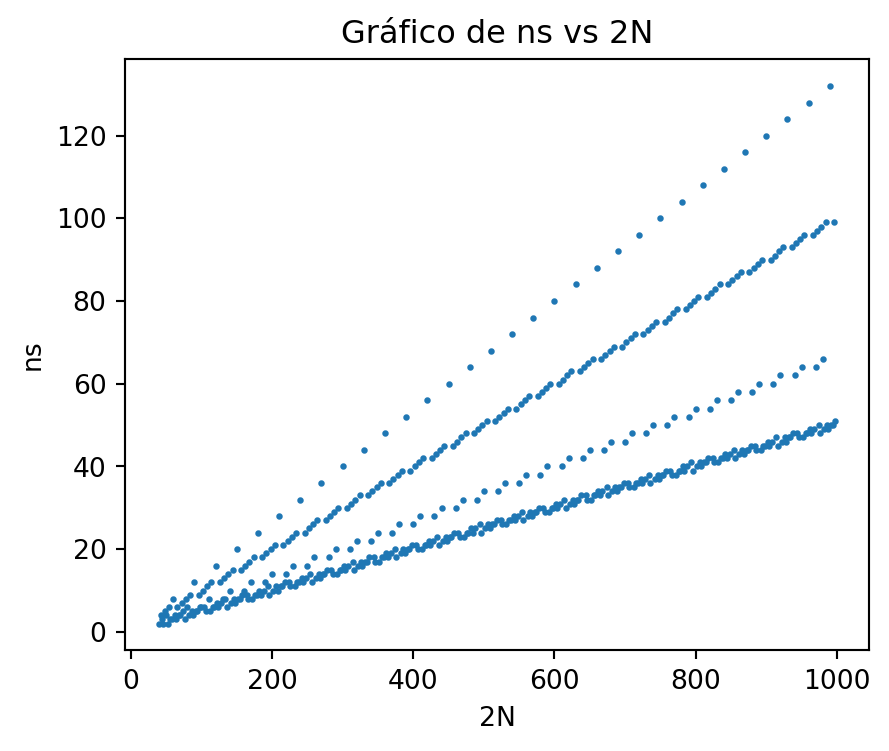
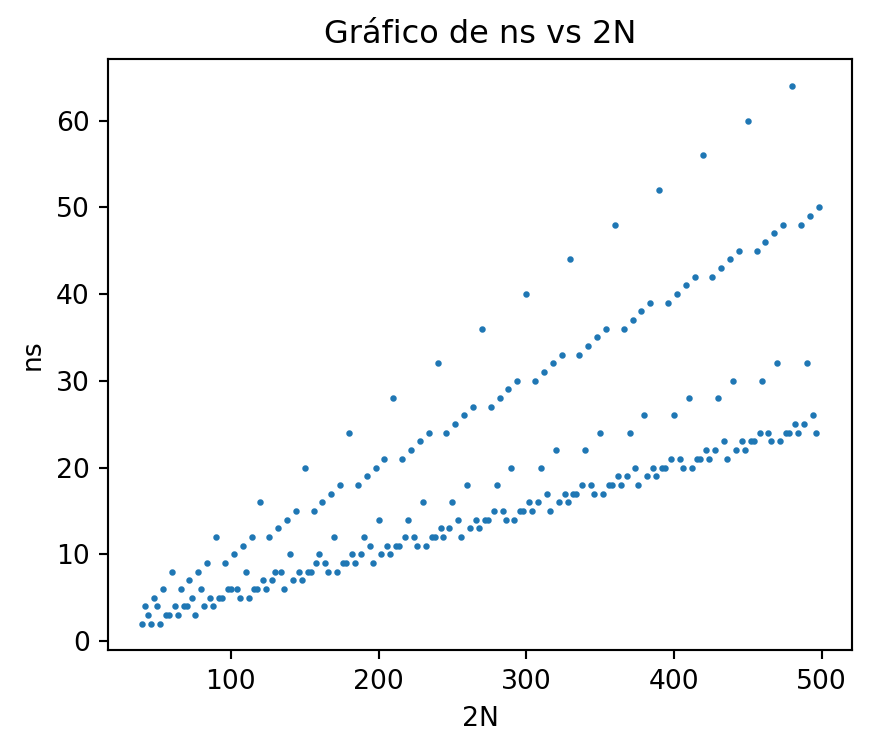
Add files via upload

diff --git a/index.html b/index.html
@@ -176,7 +176,7 @@ pre > code.sourceCode > span > a:first-child::before { text-decoration: underlin
     <h2 id="toc-title">En esta página</h2>
    
   <ul>
-  <li><a href="#resolviendo-una-ecuación" id="toc-resolviendo-una-ecuación" class="nav-link active" data-scroll-target="#resolviendo-una-ecuación">Resolviendo una ecuación</a></li>
+  <li><a href="#solución-de-5s-r-equiv-a-mod-p" id="toc-solución-de-5s-r-equiv-a-mod-p" class="nav-link active" data-scroll-target="#solución-de-5s-r-equiv-a-mod-p">Solución de <span class="math inline">\(5s + r \equiv a \mod p\)</span></a></li>
   <li><a href="#número-de-soluciones" id="toc-número-de-soluciones" class="nav-link" data-scroll-target="#número-de-soluciones">Número de soluciones</a>
   <ul class="collapse">
   <li><a href="#un-caso-de-simetría" id="toc-un-caso-de-simetría" class="nav-link" data-scroll-target="#un-caso-de-simetría">Un caso de simetría</a></li>
@@ -215,8 +215,8 @@ pre > code.sourceCode > span > a:first-child::before { text-decoration: underlin
 </header>
 
 <p>La matemática es un lenguaje que permite describir de forma cuantitativa y cualitativa nuestro entorno. Este lenguaje que se construye a partir de la sintaxis de la lógica, cruza barreras idiológicas, económicas, étnicas, de género y cualquir otra cimentada por el humano.</p>
-<section id="resolviendo-una-ecuación" class="level1">
-<h1>Resolviendo una ecuación</h1>
+<section id="solución-de-5s-r-equiv-a-mod-p" class="level1">
+<h1>Solución de <span class="math inline">\(5s + r \equiv a \mod p\)</span></h1>
 <p>Vamos a encontrar un conjunto de valores enteros <span class="math inline">\(s\)</span> tales que</p>
 <p><span id="eq-eq_modular"><span class="math display">\[
 5s + r \equiv a \mod p
@@ -592,29 +592,29 @@ n_S = \Omega \left( \frac{2m - 4}{5} \right) +  \Omega \left( \frac{m - 7}{5} \r
 <p><span id="eq-eq_m5v3"><span class="math display">\[
 s + t = \frac{m - (r_1 + r_2 + 1)}{5}
 \tag{29}\]</span></span></p>
-<p>De forma similiar a los casos anterior y teniendo en cuenta que ahora los términos <span class="math inline">\(\alpha\)</span> y <span class="math inline">\(\beta\)</span> pertenecen a conjuntos distintos, buscaremos soluciones de la ecuación</p>
+<p>Nuestro razonamiento ahora será de forma similiar a los casos anteriores, teniendo en cuenta que los términos <span class="math inline">\(\alpha\)</span> y <span class="math inline">\(\beta\)</span> pertenecen a conjuntos distintos, esto quiere decir que no tenemos simetría en las soluciones. De acuerdo con esto</p>
 <p><span id="eq-eq_casoN0"><span class="math display">\[
 r_1 + r_2 = j - 1 \text{ con } r_1 =  0,1,2,3 \text{ y } r_2 = 1,2,3,4
 \tag{30}\]</span></span></p>
-<p>Si <span class="math inline">\(j = 0\)</span> los valores que pueden tomar <span class="math inline">\(r_1\)</span>, <span class="math inline">\(r_2\)</span> son <span class="math inline">\(r_1 = 0\)</span> y <span class="math inline">\(r_2 = 4\)</span>, <span class="math inline">\(r_1 = 1,3\)</span> y <span class="math inline">\(r_2 = 3,1\)</span>, <span class="math inline">\(r_1 = 2\)</span> y <span class="math inline">\(r_2=2\)</span>. De acuerdo con esto</p>
+<p>Si <span class="math inline">\(j = 0\)</span> entonces <span class="math inline">\(r_1 + r_2 = 4\)</span> con <span class="math inline">\(r_1 \neq 4\)</span> y <span class="math inline">\(r_2 \neq 0\)</span>. De acuerdo con esto</p>
 <p><span class="math display">\[
-n_s = \frac{4m}{5}.
+n_S = \frac{4m}{5}.
 \]</span></p>
 <p>Si <span class="math inline">\(j = 1\)</span> los valores que pueden tomar <span class="math inline">\(r_1\)</span>, <span class="math inline">\(r_2\)</span> son <span class="math inline">\(r_1 = 1\)</span> y <span class="math inline">\(r_2 = 4\)</span>, <span class="math inline">\(r_1 = 2,3\)</span> y <span class="math inline">\(r_2 = 3,2\)</span>. De acuerdo con esto</p>
 <p><span class="math display">\[
-n_s = \frac{3m - 3}{5}.
+n_S = \frac{3m - 3}{5}.
 \]</span></p>
 <p>Si <span class="math inline">\(j = 2\)</span> los valores que pueden tomar <span class="math inline">\(r_1\)</span>, <span class="math inline">\(r_2\)</span> son <span class="math inline">\(r_1 = 0\)</span> y <span class="math inline">\(r_2 = 1\)</span>, <span class="math inline">\(r_1 = 2\)</span> y <span class="math inline">\(r_2 = 4\)</span>, <span class="math inline">\(r_1 = 3\)</span> y <span class="math inline">\(r_2 = 3\)</span>. De acuerdo con esto</p>
 <p><span class="math display">\[
-n_s = \frac{3m - 1}{5}.
+n_S = \frac{3m - 1}{5}.
 \]</span></p>
 <p>Si <span class="math inline">\(j = 3\)</span> los valores que pueden tomar <span class="math inline">\(r_1\)</span>, <span class="math inline">\(r_2\)</span> son <span class="math inline">\(r_1 = 0\)</span> y <span class="math inline">\(r_2 = 2\)</span>, <span class="math inline">\(r_1 = 1\)</span> y <span class="math inline">\(r_2 = 1\)</span>, <span class="math inline">\(r_1 = 3\)</span> y <span class="math inline">\(r_2 = 4\)</span>. De acuerdo con esto</p>
 <p><span class="math display">\[
-n_s = \frac{3m + 1}{5}.
+n_S = \frac{3m + 1}{5}.
 \]</span></p>
 <p>Si <span class="math inline">\(j = 4\)</span> los valores que pueden tomar <span class="math inline">\(r_1\)</span>, <span class="math inline">\(r_2\)</span> son <span class="math inline">\(r_1 = 0\)</span> y <span class="math inline">\(r_2 = 3\)</span>, <span class="math inline">\(r_1 = 1,2\)</span> y <span class="math inline">\(r_2 = 2,1\)</span>. De acuerdo con esto</p>
 <p><span class="math display">\[
-n_s = \frac{3m + 3}{5}.
+n_S = \frac{3m + 3}{5}.
 \]</span></p>
 <p>El siguiente programa encuentra el número de parejas no divisibles por <span class="math inline">\(2\)</span>, <span class="math inline">\(3\)</span> ni <span class="math inline">\(5\)</span> cuya suma en un número par <span class="math inline">\(2N\)</span>.</p>
 <div class="cell" data-execution_count="2">
@@ -640,8 +640,8 @@ n_s = \frac{3m + 3}{5}.
 <span id="cb2-20"><a href="#cb2-20" aria-hidden="true" tabindex="-1"></a>    <span class="cf">else</span>:</span>
 <span id="cb2-21"><a href="#cb2-21" aria-hidden="true" tabindex="-1"></a>        <span class="cf">return</span> <span class="dv">1</span></span>
 <span id="cb2-22"><a href="#cb2-22" aria-hidden="true" tabindex="-1"></a><span class="co">"""</span></span>
-<span id="cb2-23"><a href="#cb2-23" aria-hidden="true" tabindex="-1"></a><span class="co">La función ng(n) calcula el número de parejas de números no divisibles</span></span>
-<span id="cb2-24"><a href="#cb2-24" aria-hidden="true" tabindex="-1"></a><span class="co">por 2, 3, y 5 cuya suma es n.</span></span>
+<span id="cb2-23"><a href="#cb2-23" aria-hidden="true" tabindex="-1"></a><span class="co">La función ng(n) calcula el número de parejas de </span></span>
+<span id="cb2-24"><a href="#cb2-24" aria-hidden="true" tabindex="-1"></a><span class="co">números no divisibles por 2, 3, y 5 cuya suma es 2N.</span></span>
 <span id="cb2-25"><a href="#cb2-25" aria-hidden="true" tabindex="-1"></a><span class="co">"""</span></span>
 <span id="cb2-26"><a href="#cb2-26" aria-hidden="true" tabindex="-1"></a><span class="kw">def</span> ng(x):</span>
 <span id="cb2-27"><a href="#cb2-27" aria-hidden="true" tabindex="-1"></a>    lg <span class="op">=</span> []</span>
@@ -653,8 +653,8 @@ n_s = \frac{3m + 3}{5}.
 <span id="cb2-33"><a href="#cb2-33" aria-hidden="true" tabindex="-1"></a></span>
 <span id="cb2-34"><a href="#cb2-34" aria-hidden="true" tabindex="-1"></a></span>
 <span id="cb2-35"><a href="#cb2-35" aria-hidden="true" tabindex="-1"></a><span class="co">"""</span></span>
-<span id="cb2-36"><a href="#cb2-36" aria-hidden="true" tabindex="-1"></a><span class="co">Funciones para calcular el número de parejas no divisibles por 2, 3 y 5</span></span>
-<span id="cb2-37"><a href="#cb2-37" aria-hidden="true" tabindex="-1"></a><span class="co">cuya suma es 2N.</span></span>
+<span id="cb2-36"><a href="#cb2-36" aria-hidden="true" tabindex="-1"></a><span class="co">Funciones para calcular el número de parejas no </span></span>
+<span id="cb2-37"><a href="#cb2-37" aria-hidden="true" tabindex="-1"></a><span class="co">divisibles por 2, 3 y 5 cuya suma es 2N.</span></span>
 <span id="cb2-38"><a href="#cb2-38" aria-hidden="true" tabindex="-1"></a><span class="co">"""</span></span>
 <span id="cb2-39"><a href="#cb2-39" aria-hidden="true" tabindex="-1"></a></span>
 <span id="cb2-40"><a href="#cb2-40" aria-hidden="true" tabindex="-1"></a><span class="kw">def</span> f(x):</span>
@@ -668,82 +668,84 @@ n_s = \frac{3m + 3}{5}.
 <span id="cb2-48"><a href="#cb2-48" aria-hidden="true" tabindex="-1"></a><span class="kw">def</span> nsa(x):</span>
 <span id="cb2-49"><a href="#cb2-49" aria-hidden="true" tabindex="-1"></a>  m <span class="op">=</span> (x <span class="op">-</span> <span class="dv">2</span>)<span class="op">/</span><span class="dv">6</span></span>
 <span id="cb2-50"><a href="#cb2-50" aria-hidden="true" tabindex="-1"></a>  <span class="cf">if</span> m<span class="op">%</span><span class="dv">5</span> <span class="op">==</span> <span class="dv">0</span>:</span>
-<span id="cb2-51"><a href="#cb2-51" aria-hidden="true" tabindex="-1"></a>    <span class="cf">return</span> f(<span class="dv">1</span> <span class="op">+</span> m<span class="op">/</span><span class="dv">5</span>) <span class="op">+</span> np.floor(m<span class="op">/</span><span class="dv">5</span>)</span>
+<span id="cb2-51"><a href="#cb2-51" aria-hidden="true" tabindex="-1"></a>    <span class="cf">return</span> f((m <span class="op">+</span> <span class="dv">5</span>)<span class="op">/</span><span class="dv">5</span>) <span class="op">+</span> f(<span class="dv">2</span><span class="op">*</span>m<span class="op">/</span><span class="dv">5</span>)</span>
 <span id="cb2-52"><a href="#cb2-52" aria-hidden="true" tabindex="-1"></a>  <span class="cf">if</span> m<span class="op">%</span><span class="dv">5</span> <span class="op">==</span> <span class="dv">1</span>:</span>
-<span id="cb2-53"><a href="#cb2-53" aria-hidden="true" tabindex="-1"></a>    <span class="cf">return</span> (<span class="dv">1</span> <span class="op">+</span> np.floor(m<span class="op">/</span><span class="dv">5</span>)) <span class="op">+</span>  f( np.floor(m<span class="op">/</span><span class="dv">5</span>))</span>
-<span id="cb2-54"><a href="#cb2-54" aria-hidden="true" tabindex="-1"></a>  <span class="cf">if</span> m <span class="op">%</span> <span class="dv">5</span> <span class="op">==</span> <span class="dv">2</span> <span class="kw">or</span> m <span class="op">%</span> <span class="dv">5</span> <span class="op">==</span> <span class="dv">3</span>:</span>
-<span id="cb2-55"><a href="#cb2-55" aria-hidden="true" tabindex="-1"></a>    <span class="cf">return</span> f((<span class="dv">1</span> <span class="op">+</span> m <span class="op">-</span> <span class="dv">5</span><span class="op">*</span>np.floor(m<span class="op">/</span><span class="dv">5</span>))<span class="op">*</span>(<span class="dv">1</span> <span class="op">+</span> np.floor(m<span class="op">/</span><span class="dv">5</span>)))</span>
-<span id="cb2-56"><a href="#cb2-56" aria-hidden="true" tabindex="-1"></a>  <span class="cf">if</span> m<span class="op">%</span><span class="dv">5</span> <span class="op">==</span> <span class="dv">4</span>:</span>
-<span id="cb2-57"><a href="#cb2-57" aria-hidden="true" tabindex="-1"></a>    <span class="cf">return</span> f( (<span class="dv">3</span><span class="op">*</span>m <span class="op">+</span> <span class="dv">3</span>)<span class="op">/</span><span class="dv">5</span> )</span>
-<span id="cb2-58"><a href="#cb2-58" aria-hidden="true" tabindex="-1"></a></span>
-<span id="cb2-59"><a href="#cb2-59" aria-hidden="true" tabindex="-1"></a><span class="co"># En la caso en que N = 2 mod 3</span></span>
+<span id="cb2-53"><a href="#cb2-53" aria-hidden="true" tabindex="-1"></a>    <span class="cf">return</span> f((<span class="dv">2</span><span class="op">*</span>m <span class="op">+</span> <span class="dv">8</span>)<span class="op">/</span><span class="dv">5</span>) <span class="op">+</span> f((m<span class="op">-</span><span class="dv">1</span>)<span class="op">/</span><span class="dv">5</span>)</span>
+<span id="cb2-54"><a href="#cb2-54" aria-hidden="true" tabindex="-1"></a>  <span class="cf">if</span> m <span class="op">%</span> <span class="dv">5</span> <span class="op">==</span> <span class="dv">2</span>:</span>
+<span id="cb2-55"><a href="#cb2-55" aria-hidden="true" tabindex="-1"></a>    <span class="cf">return</span> f((<span class="dv">3</span><span class="op">*</span>m <span class="op">+</span> <span class="dv">9</span>)<span class="op">/</span><span class="dv">5</span>)</span>
+<span id="cb2-56"><a href="#cb2-56" aria-hidden="true" tabindex="-1"></a>  <span class="cf">if</span> m <span class="op">%</span> <span class="dv">5</span> <span class="op">==</span> <span class="dv">3</span>:</span>
+<span id="cb2-57"><a href="#cb2-57" aria-hidden="true" tabindex="-1"></a>    <span class="cf">return</span> f((<span class="dv">4</span><span class="op">*</span>m <span class="op">+</span> <span class="dv">8</span>)<span class="op">/</span><span class="dv">5</span>)</span>
+<span id="cb2-58"><a href="#cb2-58" aria-hidden="true" tabindex="-1"></a>  <span class="cf">if</span> m<span class="op">%</span><span class="dv">5</span> <span class="op">==</span> <span class="dv">4</span>:</span>
+<span id="cb2-59"><a href="#cb2-59" aria-hidden="true" tabindex="-1"></a>    <span class="cf">return</span> f( (<span class="dv">3</span><span class="op">*</span>m <span class="op">+</span> <span class="dv">3</span>)<span class="op">/</span><span class="dv">5</span> )</span>
 <span id="cb2-60"><a href="#cb2-60" aria-hidden="true" tabindex="-1"></a></span>
-<span id="cb2-61"><a href="#cb2-61" aria-hidden="true" tabindex="-1"></a><span class="kw">def</span> nsb(x):</span>
-<span id="cb2-62"><a href="#cb2-62" aria-hidden="true" tabindex="-1"></a>  m <span class="op">=</span> (x <span class="op">-</span> <span class="dv">4</span>)<span class="op">/</span><span class="dv">6</span></span>
-<span id="cb2-63"><a href="#cb2-63" aria-hidden="true" tabindex="-1"></a>  <span class="cf">if</span> m<span class="op">%</span><span class="dv">5</span> <span class="op">==</span> <span class="dv">0</span>:</span>
-<span id="cb2-64"><a href="#cb2-64" aria-hidden="true" tabindex="-1"></a>    <span class="cf">return</span> (m <span class="op">-</span> <span class="dv">5</span>)<span class="op">/</span><span class="dv">5</span> <span class="op">+</span>  np.floor((m<span class="op">-</span><span class="dv">5</span>)<span class="op">/</span><span class="dv">10</span>) <span class="op">+</span> <span class="dv">2</span></span>
-<span id="cb2-65"><a href="#cb2-65" aria-hidden="true" tabindex="-1"></a>  <span class="cf">if</span> m<span class="op">%</span><span class="dv">5</span> <span class="op">==</span> <span class="dv">1</span>:</span>
-<span id="cb2-66"><a href="#cb2-66" aria-hidden="true" tabindex="-1"></a>      <span class="cf">return</span> (<span class="dv">2</span><span class="op">*</span>m <span class="op">-</span> <span class="dv">2</span>)<span class="op">/</span><span class="dv">5</span> </span>
-<span id="cb2-67"><a href="#cb2-67" aria-hidden="true" tabindex="-1"></a>  <span class="cf">if</span> m<span class="op">%</span><span class="dv">5</span> <span class="op">==</span> <span class="dv">2</span>:</span>
-<span id="cb2-68"><a href="#cb2-68" aria-hidden="true" tabindex="-1"></a>    <span class="cf">return</span> (m <span class="op">-</span> <span class="dv">7</span>)<span class="op">/</span><span class="dv">5</span> <span class="op">+</span>  np.floor((m<span class="op">-</span><span class="dv">7</span>)<span class="op">/</span><span class="dv">10</span>) <span class="op">+</span> <span class="dv">2</span></span>
-<span id="cb2-69"><a href="#cb2-69" aria-hidden="true" tabindex="-1"></a>  <span class="cf">if</span> m<span class="op">%</span><span class="dv">5</span> <span class="op">==</span> <span class="dv">3</span>:</span>
-<span id="cb2-70"><a href="#cb2-70" aria-hidden="true" tabindex="-1"></a>    <span class="cf">return</span> (m <span class="op">-</span> <span class="dv">8</span>)<span class="op">/</span><span class="dv">5</span> <span class="op">+</span>  np.floor((m<span class="op">-</span><span class="dv">2</span>)<span class="op">/</span><span class="dv">10</span>) <span class="op">+</span> <span class="dv">2</span></span>
-<span id="cb2-71"><a href="#cb2-71" aria-hidden="true" tabindex="-1"></a>  <span class="cf">if</span> m<span class="op">%</span><span class="dv">5</span> <span class="op">==</span> <span class="dv">4</span>:</span>
-<span id="cb2-72"><a href="#cb2-72" aria-hidden="true" tabindex="-1"></a>    <span class="cf">return</span> (m <span class="op">-</span> <span class="dv">4</span>)<span class="op">/</span><span class="dv">5</span> <span class="op">+</span>  np.floor((m<span class="op">-</span><span class="dv">9</span>)<span class="op">/</span><span class="dv">10</span>) <span class="op">+</span> <span class="dv">2</span></span>
-<span id="cb2-73"><a href="#cb2-73" aria-hidden="true" tabindex="-1"></a></span>
-<span id="cb2-74"><a href="#cb2-74" aria-hidden="true" tabindex="-1"></a><span class="co"># En la caso en que N = 0 mod 3</span></span>
+<span id="cb2-61"><a href="#cb2-61" aria-hidden="true" tabindex="-1"></a><span class="co"># En la caso en que N = 2 mod 3</span></span>
+<span id="cb2-62"><a href="#cb2-62" aria-hidden="true" tabindex="-1"></a></span>
+<span id="cb2-63"><a href="#cb2-63" aria-hidden="true" tabindex="-1"></a><span class="kw">def</span> nsb(x):</span>
+<span id="cb2-64"><a href="#cb2-64" aria-hidden="true" tabindex="-1"></a>  m <span class="op">=</span> (x <span class="op">-</span> <span class="dv">4</span>)<span class="op">/</span><span class="dv">6</span></span>
+<span id="cb2-65"><a href="#cb2-65" aria-hidden="true" tabindex="-1"></a>  <span class="cf">if</span> m<span class="op">%</span><span class="dv">5</span> <span class="op">==</span> <span class="dv">0</span>:</span>
+<span id="cb2-66"><a href="#cb2-66" aria-hidden="true" tabindex="-1"></a>    <span class="cf">return</span> f((<span class="dv">3</span><span class="op">*</span>m)<span class="op">/</span><span class="dv">5</span>)</span>
+<span id="cb2-67"><a href="#cb2-67" aria-hidden="true" tabindex="-1"></a>  <span class="cf">if</span> m<span class="op">%</span><span class="dv">5</span> <span class="op">==</span> <span class="dv">1</span>:</span>
+<span id="cb2-68"><a href="#cb2-68" aria-hidden="true" tabindex="-1"></a>      <span class="cf">return</span> f((<span class="dv">4</span><span class="op">*</span>m <span class="op">-</span> <span class="dv">4</span> )<span class="op">/</span><span class="dv">5</span>)</span>
+<span id="cb2-69"><a href="#cb2-69" aria-hidden="true" tabindex="-1"></a>  <span class="cf">if</span> m<span class="op">%</span><span class="dv">5</span> <span class="op">==</span> <span class="dv">2</span>:</span>
+<span id="cb2-70"><a href="#cb2-70" aria-hidden="true" tabindex="-1"></a>    <span class="cf">return</span> f((<span class="dv">3</span><span class="op">*</span>m <span class="op">-</span> <span class="dv">9</span> )<span class="op">/</span><span class="dv">5</span>)</span>
+<span id="cb2-71"><a href="#cb2-71" aria-hidden="true" tabindex="-1"></a>  <span class="cf">if</span> m<span class="op">%</span><span class="dv">5</span> <span class="op">==</span> <span class="dv">3</span>:</span>
+<span id="cb2-72"><a href="#cb2-72" aria-hidden="true" tabindex="-1"></a>    <span class="cf">return</span> f(m<span class="op">/</span><span class="dv">5</span>) <span class="op">+</span> f((<span class="dv">2</span><span class="op">*</span>m <span class="op">-</span> <span class="dv">10</span> )<span class="op">/</span><span class="dv">5</span>)</span>
+<span id="cb2-73"><a href="#cb2-73" aria-hidden="true" tabindex="-1"></a>  <span class="cf">if</span> m<span class="op">%</span><span class="dv">5</span> <span class="op">==</span> <span class="dv">4</span>:</span>
+<span id="cb2-74"><a href="#cb2-74" aria-hidden="true" tabindex="-1"></a>    <span class="cf">return</span> f((<span class="dv">2</span><span class="op">*</span>m <span class="op">-</span> <span class="dv">4</span> )<span class="op">/</span><span class="dv">5</span>) <span class="op">+</span> f((m <span class="op">-</span> <span class="dv">7</span> )<span class="op">/</span><span class="dv">5</span>)</span>
 <span id="cb2-75"><a href="#cb2-75" aria-hidden="true" tabindex="-1"></a></span>
-<span id="cb2-76"><a href="#cb2-76" aria-hidden="true" tabindex="-1"></a><span class="kw">def</span> nsc(x):</span>
-<span id="cb2-77"><a href="#cb2-77" aria-hidden="true" tabindex="-1"></a>  m <span class="op">=</span> x<span class="op">/</span><span class="dv">6</span></span>
-<span id="cb2-78"><a href="#cb2-78" aria-hidden="true" tabindex="-1"></a>  <span class="cf">if</span> m<span class="op">%</span><span class="dv">5</span> <span class="op">==</span> <span class="dv">0</span>:</span>
-<span id="cb2-79"><a href="#cb2-79" aria-hidden="true" tabindex="-1"></a>      <span class="cf">return</span> <span class="dv">4</span><span class="op">*</span>m<span class="op">/</span><span class="dv">5</span></span>
-<span id="cb2-80"><a href="#cb2-80" aria-hidden="true" tabindex="-1"></a>  <span class="cf">if</span> m<span class="op">%</span><span class="dv">5</span> <span class="op">==</span> <span class="dv">1</span>:</span>
-<span id="cb2-81"><a href="#cb2-81" aria-hidden="true" tabindex="-1"></a>      <span class="cf">return</span> (<span class="dv">3</span><span class="op">*</span>m <span class="op">-</span> <span class="dv">3</span>)<span class="op">/</span><span class="dv">5</span></span>
-<span id="cb2-82"><a href="#cb2-82" aria-hidden="true" tabindex="-1"></a>  <span class="cf">if</span> m<span class="op">%</span><span class="dv">5</span> <span class="op">==</span> <span class="dv">2</span>:</span>
-<span id="cb2-83"><a href="#cb2-83" aria-hidden="true" tabindex="-1"></a>      <span class="cf">return</span> (<span class="dv">3</span><span class="op">*</span>m <span class="op">-</span> <span class="dv">1</span>)<span class="op">/</span><span class="dv">5</span></span>
-<span id="cb2-84"><a href="#cb2-84" aria-hidden="true" tabindex="-1"></a>  <span class="cf">if</span> m<span class="op">%</span><span class="dv">5</span> <span class="op">==</span> <span class="dv">3</span>:</span>
-<span id="cb2-85"><a href="#cb2-85" aria-hidden="true" tabindex="-1"></a>      <span class="cf">return</span> (<span class="dv">3</span><span class="op">*</span>m <span class="op">+</span> <span class="dv">1</span>)<span class="op">/</span><span class="dv">5</span></span>
-<span id="cb2-86"><a href="#cb2-86" aria-hidden="true" tabindex="-1"></a>  <span class="cf">if</span> m<span class="op">%</span><span class="dv">5</span> <span class="op">==</span> <span class="dv">4</span>:</span>
-<span id="cb2-87"><a href="#cb2-87" aria-hidden="true" tabindex="-1"></a>      <span class="cf">return</span> (<span class="dv">3</span><span class="op">*</span>m <span class="op">+</span> <span class="dv">3</span>)<span class="op">/</span><span class="dv">5</span></span>
-<span id="cb2-88"><a href="#cb2-88" aria-hidden="true" tabindex="-1"></a></span>
-<span id="cb2-89"><a href="#cb2-89" aria-hidden="true" tabindex="-1"></a><span class="co"># Definición de la funcion ns (números de parejas</span></span>
-<span id="cb2-90"><a href="#cb2-90" aria-hidden="true" tabindex="-1"></a><span class="co"># cuya suma es 2N)</span></span>
-<span id="cb2-91"><a href="#cb2-91" aria-hidden="true" tabindex="-1"></a></span>
-<span id="cb2-92"><a href="#cb2-92" aria-hidden="true" tabindex="-1"></a><span class="kw">def</span> ns(x):</span>
-<span id="cb2-93"><a href="#cb2-93" aria-hidden="true" tabindex="-1"></a>    <span class="cf">if</span> (x<span class="op">/</span><span class="dv">2</span>)<span class="op">%</span><span class="dv">3</span> <span class="op">==</span> <span class="dv">1</span>:</span>
-<span id="cb2-94"><a href="#cb2-94" aria-hidden="true" tabindex="-1"></a>        <span class="cf">return</span> nsa(x)</span>
-<span id="cb2-95"><a href="#cb2-95" aria-hidden="true" tabindex="-1"></a>    <span class="cf">if</span> (x<span class="op">/</span><span class="dv">2</span>)<span class="op">%</span><span class="dv">3</span> <span class="op">==</span> <span class="dv">2</span>:</span>
-<span id="cb2-96"><a href="#cb2-96" aria-hidden="true" tabindex="-1"></a>        <span class="cf">return</span> nsb(x)</span>
-<span id="cb2-97"><a href="#cb2-97" aria-hidden="true" tabindex="-1"></a>    <span class="cf">if</span> (x<span class="op">/</span><span class="dv">2</span>)<span class="op">%</span><span class="dv">3</span> <span class="op">==</span> <span class="dv">0</span>:</span>
-<span id="cb2-98"><a href="#cb2-98" aria-hidden="true" tabindex="-1"></a>        <span class="cf">return</span> nsc(x)</span>
-<span id="cb2-99"><a href="#cb2-99" aria-hidden="true" tabindex="-1"></a></span>
-<span id="cb2-100"><a href="#cb2-100" aria-hidden="true" tabindex="-1"></a>valores <span class="op">=</span> [<span class="dv">2</span><span class="op">*</span>k <span class="cf">for</span> k <span class="kw">in</span> <span class="bu">range</span>(<span class="dv">20</span>,<span class="dv">500</span>)]</span>
+<span id="cb2-76"><a href="#cb2-76" aria-hidden="true" tabindex="-1"></a><span class="co"># En la caso en que N = 0 mod 3</span></span>
+<span id="cb2-77"><a href="#cb2-77" aria-hidden="true" tabindex="-1"></a></span>
+<span id="cb2-78"><a href="#cb2-78" aria-hidden="true" tabindex="-1"></a><span class="kw">def</span> nsc(x):</span>
+<span id="cb2-79"><a href="#cb2-79" aria-hidden="true" tabindex="-1"></a>  m <span class="op">=</span> x<span class="op">/</span><span class="dv">6</span></span>
+<span id="cb2-80"><a href="#cb2-80" aria-hidden="true" tabindex="-1"></a>  <span class="cf">if</span> m<span class="op">%</span><span class="dv">5</span> <span class="op">==</span> <span class="dv">0</span>:</span>
+<span id="cb2-81"><a href="#cb2-81" aria-hidden="true" tabindex="-1"></a>      <span class="cf">return</span> <span class="dv">4</span><span class="op">*</span>m<span class="op">/</span><span class="dv">5</span></span>
+<span id="cb2-82"><a href="#cb2-82" aria-hidden="true" tabindex="-1"></a>  <span class="cf">if</span> m<span class="op">%</span><span class="dv">5</span> <span class="op">==</span> <span class="dv">1</span>:</span>
+<span id="cb2-83"><a href="#cb2-83" aria-hidden="true" tabindex="-1"></a>      <span class="cf">return</span> (<span class="dv">3</span><span class="op">*</span>m <span class="op">-</span> <span class="dv">3</span>)<span class="op">/</span><span class="dv">5</span></span>
+<span id="cb2-84"><a href="#cb2-84" aria-hidden="true" tabindex="-1"></a>  <span class="cf">if</span> m<span class="op">%</span><span class="dv">5</span> <span class="op">==</span> <span class="dv">2</span>:</span>
+<span id="cb2-85"><a href="#cb2-85" aria-hidden="true" tabindex="-1"></a>      <span class="cf">return</span> (<span class="dv">3</span><span class="op">*</span>m <span class="op">-</span> <span class="dv">1</span>)<span class="op">/</span><span class="dv">5</span></span>
+<span id="cb2-86"><a href="#cb2-86" aria-hidden="true" tabindex="-1"></a>  <span class="cf">if</span> m<span class="op">%</span><span class="dv">5</span> <span class="op">==</span> <span class="dv">3</span>:</span>
+<span id="cb2-87"><a href="#cb2-87" aria-hidden="true" tabindex="-1"></a>      <span class="cf">return</span> (<span class="dv">3</span><span class="op">*</span>m <span class="op">+</span> <span class="dv">1</span>)<span class="op">/</span><span class="dv">5</span></span>
+<span id="cb2-88"><a href="#cb2-88" aria-hidden="true" tabindex="-1"></a>  <span class="cf">if</span> m<span class="op">%</span><span class="dv">5</span> <span class="op">==</span> <span class="dv">4</span>:</span>
+<span id="cb2-89"><a href="#cb2-89" aria-hidden="true" tabindex="-1"></a>      <span class="cf">return</span> (<span class="dv">3</span><span class="op">*</span>m <span class="op">+</span> <span class="dv">3</span>)<span class="op">/</span><span class="dv">5</span></span>
+<span id="cb2-90"><a href="#cb2-90" aria-hidden="true" tabindex="-1"></a></span>
+<span id="cb2-91"><a href="#cb2-91" aria-hidden="true" tabindex="-1"></a><span class="co"># Definición de la funcion ns (números de parejas</span></span>
+<span id="cb2-92"><a href="#cb2-92" aria-hidden="true" tabindex="-1"></a><span class="co"># cuya suma es 2N)</span></span>
+<span id="cb2-93"><a href="#cb2-93" aria-hidden="true" tabindex="-1"></a></span>
+<span id="cb2-94"><a href="#cb2-94" aria-hidden="true" tabindex="-1"></a><span class="kw">def</span> ns(x):</span>
+<span id="cb2-95"><a href="#cb2-95" aria-hidden="true" tabindex="-1"></a>    <span class="cf">if</span> (x<span class="op">/</span><span class="dv">2</span>)<span class="op">%</span><span class="dv">3</span> <span class="op">==</span> <span class="dv">1</span>:</span>
+<span id="cb2-96"><a href="#cb2-96" aria-hidden="true" tabindex="-1"></a>        <span class="cf">return</span> nsa(x)</span>
+<span id="cb2-97"><a href="#cb2-97" aria-hidden="true" tabindex="-1"></a>    <span class="cf">if</span> (x<span class="op">/</span><span class="dv">2</span>)<span class="op">%</span><span class="dv">3</span> <span class="op">==</span> <span class="dv">2</span>:</span>
+<span id="cb2-98"><a href="#cb2-98" aria-hidden="true" tabindex="-1"></a>        <span class="cf">return</span> nsb(x)</span>
+<span id="cb2-99"><a href="#cb2-99" aria-hidden="true" tabindex="-1"></a>    <span class="cf">if</span> (x<span class="op">/</span><span class="dv">2</span>)<span class="op">%</span><span class="dv">3</span> <span class="op">==</span> <span class="dv">0</span>:</span>
+<span id="cb2-100"><a href="#cb2-100" aria-hidden="true" tabindex="-1"></a>        <span class="cf">return</span> nsc(x)</span>
 <span id="cb2-101"><a href="#cb2-101" aria-hidden="true" tabindex="-1"></a></span>
-<span id="cb2-102"><a href="#cb2-102" aria-hidden="true" tabindex="-1"></a>plt.figure(figsize <span class="op">=</span> (<span class="dv">5</span>,<span class="dv">4</span>))</span>
-<span id="cb2-103"><a href="#cb2-103" aria-hidden="true" tabindex="-1"></a>plt.scatter(valores, [ns(k) <span class="cf">for</span> k <span class="kw">in</span> valores], s <span class="op">=</span> <span class="dv">2</span>)</span>
-<span id="cb2-104"><a href="#cb2-104" aria-hidden="true" tabindex="-1"></a>plt.title(<span class="st">'Gráfico de ns vs 2N'</span>)</span>
-<span id="cb2-105"><a href="#cb2-105" aria-hidden="true" tabindex="-1"></a>plt.xlabel(<span class="st">'2N'</span>)</span>
-<span id="cb2-106"><a href="#cb2-106" aria-hidden="true" tabindex="-1"></a>plt.ylabel(<span class="st">'ns'</span>)</span>
-<span id="cb2-107"><a href="#cb2-107" aria-hidden="true" tabindex="-1"></a>plt.show()</span>
-<span id="cb2-108"><a href="#cb2-108" aria-hidden="true" tabindex="-1"></a></span>
-<span id="cb2-109"><a href="#cb2-109" aria-hidden="true" tabindex="-1"></a><span class="co">"""</span></span>
-<span id="cb2-110"><a href="#cb2-110" aria-hidden="true" tabindex="-1"></a><span class="co">Un ejemplo numérico y analítico</span></span>
-<span id="cb2-111"><a href="#cb2-111" aria-hidden="true" tabindex="-1"></a><span class="co">modifique el valor de k</span></span>
-<span id="cb2-112"><a href="#cb2-112" aria-hidden="true" tabindex="-1"></a><span class="co">"""</span></span>
-<span id="cb2-113"><a href="#cb2-113" aria-hidden="true" tabindex="-1"></a></span>
-<span id="cb2-114"><a href="#cb2-114" aria-hidden="true" tabindex="-1"></a><span class="bu">print</span>(<span class="st">'El siguiente es un ejemplo numérico '</span>)</span>
-<span id="cb2-115"><a href="#cb2-115" aria-hidden="true" tabindex="-1"></a>numero <span class="op">=</span> <span class="dv">15024820</span></span>
-<span id="cb2-116"><a href="#cb2-116" aria-hidden="true" tabindex="-1"></a><span class="bu">print</span>(<span class="ss">f'Número par </span><span class="sc">{</span>numero<span class="sc">}</span><span class="ss">'</span>)</span>
-<span id="cb2-117"><a href="#cb2-117" aria-hidden="true" tabindex="-1"></a><span class="bu">print</span>(<span class="ss">f'Cómputo numérico del número de parejas </span><span class="sc">{</span>ng(numero)<span class="sc">}</span><span class="ss">'</span>)</span>
-<span id="cb2-118"><a href="#cb2-118" aria-hidden="true" tabindex="-1"></a><span class="bu">print</span>(<span class="ss">f'Expresión analítica para calcular el número de parejas </span><span class="sc">{</span>ns(numero)<span class="sc">}</span><span class="ss">'</span>)</span></code><button title="Copiar al portapapeles" class="code-copy-button"><i class="bi"></i></button></pre></div>
+<span id="cb2-102"><a href="#cb2-102" aria-hidden="true" tabindex="-1"></a>valores <span class="op">=</span> [<span class="dv">2</span><span class="op">*</span>k <span class="cf">for</span> k <span class="kw">in</span> <span class="bu">range</span>(<span class="dv">20</span>,<span class="dv">250</span>)]</span>
+<span id="cb2-103"><a href="#cb2-103" aria-hidden="true" tabindex="-1"></a></span>
+<span id="cb2-104"><a href="#cb2-104" aria-hidden="true" tabindex="-1"></a>plt.figure(figsize <span class="op">=</span> (<span class="dv">5</span>,<span class="dv">4</span>))</span>
+<span id="cb2-105"><a href="#cb2-105" aria-hidden="true" tabindex="-1"></a>plt.scatter(valores, [ns(k) <span class="cf">for</span> k <span class="kw">in</span> valores], s <span class="op">=</span> <span class="dv">2</span>)</span>
+<span id="cb2-106"><a href="#cb2-106" aria-hidden="true" tabindex="-1"></a>plt.title(<span class="st">'Gráfico de ns vs 2N'</span>)</span>
+<span id="cb2-107"><a href="#cb2-107" aria-hidden="true" tabindex="-1"></a>plt.xlabel(<span class="st">'2N'</span>)</span>
+<span id="cb2-108"><a href="#cb2-108" aria-hidden="true" tabindex="-1"></a>plt.ylabel(<span class="st">'ns'</span>)</span>
+<span id="cb2-109"><a href="#cb2-109" aria-hidden="true" tabindex="-1"></a>plt.show()</span>
+<span id="cb2-110"><a href="#cb2-110" aria-hidden="true" tabindex="-1"></a></span>
+<span id="cb2-111"><a href="#cb2-111" aria-hidden="true" tabindex="-1"></a><span class="co">"""</span></span>
+<span id="cb2-112"><a href="#cb2-112" aria-hidden="true" tabindex="-1"></a><span class="co">Un ejemplo numérico y analítico</span></span>
+<span id="cb2-113"><a href="#cb2-113" aria-hidden="true" tabindex="-1"></a><span class="co">modifique el valor de k</span></span>
+<span id="cb2-114"><a href="#cb2-114" aria-hidden="true" tabindex="-1"></a><span class="co">"""</span></span>
+<span id="cb2-115"><a href="#cb2-115" aria-hidden="true" tabindex="-1"></a></span>
+<span id="cb2-116"><a href="#cb2-116" aria-hidden="true" tabindex="-1"></a><span class="bu">print</span>(<span class="st">'El siguiente es un ejemplo numérico '</span>)</span>
+<span id="cb2-117"><a href="#cb2-117" aria-hidden="true" tabindex="-1"></a>numero <span class="op">=</span> <span class="dv">99602042</span></span>
+<span id="cb2-118"><a href="#cb2-118" aria-hidden="true" tabindex="-1"></a><span class="bu">print</span>(<span class="ss">f'Número par </span><span class="sc">{</span>numero<span class="sc">}</span><span class="ss">'</span>)</span>
+<span id="cb2-119"><a href="#cb2-119" aria-hidden="true" tabindex="-1"></a><span class="bu">print</span>(<span class="ss">f'Cómputo numérico del número de parejas </span><span class="sc">{</span>ng(numero)<span class="sc">}</span><span class="ss">'</span>)</span>
+<span id="cb2-120"><a href="#cb2-120" aria-hidden="true" tabindex="-1"></a><span class="bu">print</span>(<span class="ss">f'Expresión analítica para calcular el número de parejas </span><span class="sc">{</span>ns(numero)<span class="sc">}</span><span class="ss">'</span>)</span></code><button title="Copiar al portapapeles" class="code-copy-button"><i class="bi"></i></button></pre></div>
 <div class="cell-output cell-output-display">
-<p><img src="index_files/figure-html/cell-3-output-1.png" width="445" height="376"></p>
+<p><img src="index_files/figure-html/cell-3-output-1.png" width="436" height="376"></p>
 </div>
 <div class="cell-output cell-output-stdout">
 <pre><code>El siguiente es un ejemplo numérico 
-Número par 15024820
-Cómputo numérico del número de parejas 1001654
-Expresión analítica para calcular el número de parejas 1001654.0</code></pre>
+Número par 99602042
+Cómputo numérico del número de parejas 4980103
+Expresión analítica para calcular el número de parejas 4980103.0</code></pre>
 </div>
 </div>
 

diff --git a/mat_arte.html b/mat_arte.html
@@ -168,7 +168,7 @@ pre > code.sourceCode > span > a:first-child::before { text-decoration: underlin
 <div class="quarto-figure quarto-figure-center">
 <figure class="figure">
 <p><img src=".\img/logo.png" class="img-fluid figure-img"></p>
-<figcaption class="figure-caption">superficie paramétrica</figcaption>
+<figcaption class="figure-caption">superficie paramétrica (generada en OpenSCAD)</figcaption>
 </figure>
 </div>
 </div></div>
